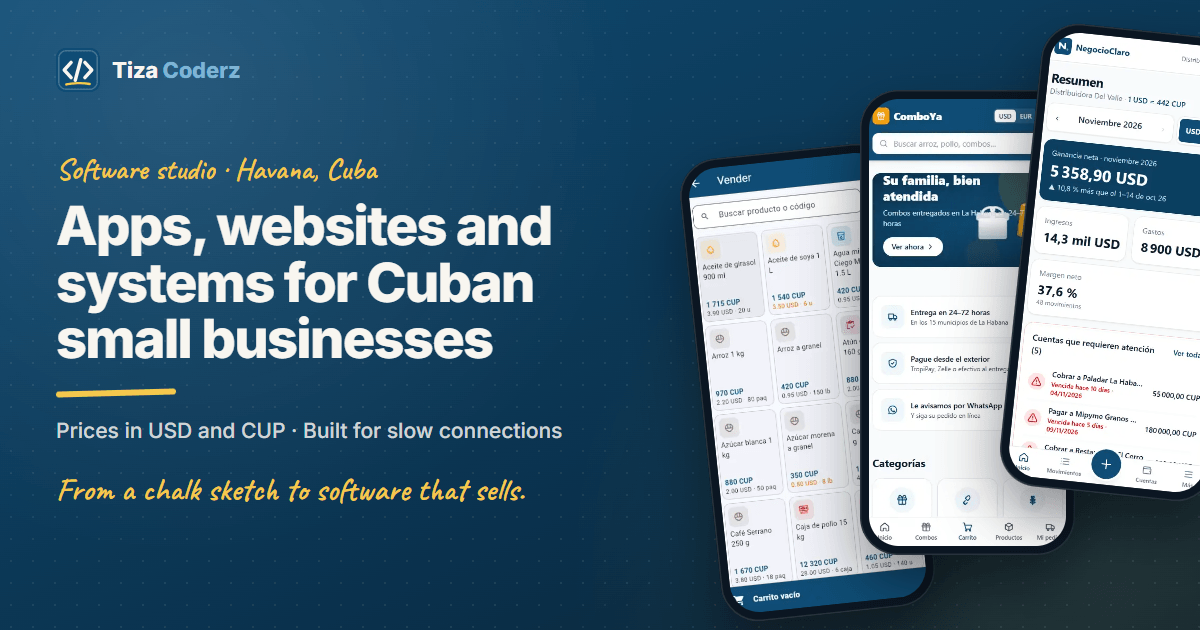
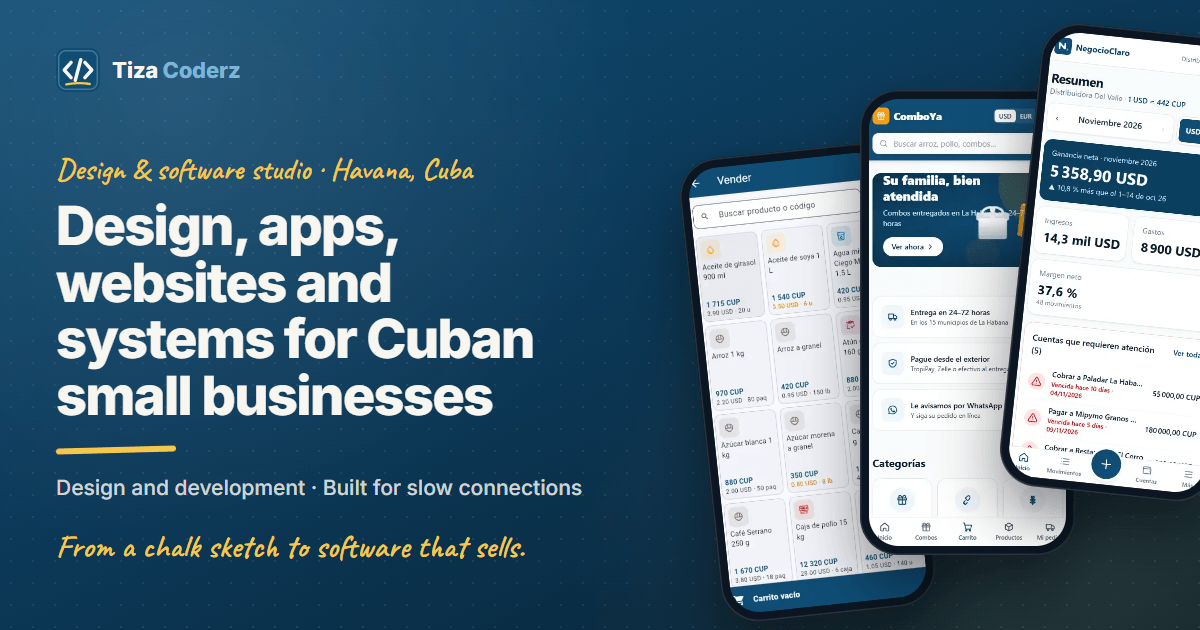
feat(seo): quita precios del JSON-LD y actualiza la imagen Open Graph del sitio

diff --git a/scripts/generate-marketing.ts b/scripts/generate-marketing.ts
@@ -7,6 +7,7 @@
  *
  *   pnpm marketing            # todo
  *   pnpm marketing comboya    # solo un proyecto
+ *   pnpm marketing --site     # solo las imágenes del sitio
  *
  * Las plantillas son HTML + CSS renderizados con Playwright (Edge/Chrome local).
  */
@@ -212,14 +213,14 @@ async function projectImages(browser: Browser, project: Project) {
 
 const siteCopy = {
   es: {
-    kicker: "Estudio de desarrollo · La Habana",
-    title: "Apps, webs y sistemas para mipymes cubanas",
-    sub: "Precios en USD y CUP · Funcionan aunque la conexión sea mala",
+    kicker: "Estudio de diseño y desarrollo · La Habana",
+    title: "Diseño, apps, webs y sistemas para mipymes cubanas",
+    sub: "Diseño y desarrollo · Funciona aunque la conexión sea mala",
   },
   en: {
-    kicker: "Software studio · Havana, Cuba",
-    title: "Apps, websites and systems for Cuban small businesses",
-    sub: "Prices in USD and CUP · Built for slow connections",
+    kicker: "Design & software studio · Havana, Cuba",
+    title: "Design, apps, websites and systems for Cuban small businesses",
+    sub: "Design and development · Built for slow connections",
   },
 } as const;
 
@@ -258,11 +259,12 @@ async function siteImages(browser: Browser) {
 
 async function main() {
   const only = process.argv[2];
-  const projects = getAllProjects("es").filter((p) => !only || p.slug === only);
+  const siteOnly = only === "--site";
+  const projects = siteOnly ? [] : getAllProjects("es").filter((p) => !only || p.slug === only);
   const browser = await chromium.launch({ channel: process.env.PW_CHANNEL ?? "msedge" });
   try {
     for (const project of projects) await projectImages(browser, project);
-    if (!only) await siteImages(browser);
+    if (!only || siteOnly) await siteImages(browser);
   } finally {
     await browser.close();
   }

diff --git a/src/lib/structured-data.ts b/src/lib/structured-data.ts
@@ -37,7 +37,6 @@ export function professionalServiceJsonLd(locale: Locale, dict: Dictionary) {
     areaServed: company.areaServed.map((name) => ({ "@type": "Place", name })),
     availableLanguage: ["es", "en"],
     currenciesAccepted: "USD, CUP",
-    priceRange: "$$",
     openingHoursSpecification: {
       "@type": "OpeningHoursSpecification",
       dayOfWeek: ["Monday", "Tuesday", "Wednesday", "Thursday", "Friday", "Saturday"],
@@ -51,13 +50,6 @@ export function professionalServiceJsonLd(locale: Locale, dict: Dictionary) {
       itemListElement: services.map((s) => ({
         "@type": "Offer",
         itemOffered: { "@type": "Service", name: s.name[locale], description: s.summary[locale] },
-        priceSpecification: {
-          "@type": s.billing === "monthly" ? "UnitPriceSpecification" : "PriceSpecification",
-          minPrice: s.priceFromUsd,
-          ...(s.priceToUsd ? { maxPrice: s.priceToUsd } : {}),
-          priceCurrency: "USD",
-          ...(s.billing === "monthly" ? { unitCode: "MON" } : {}),
-        },
       })),
     },
   };

diff --git a/src/lib/structured-data.test.ts b/src/lib/structured-data.test.ts
@@ -20,12 +20,12 @@ describe("professionalServiceJsonLd", () => {
     expect(ld.address.addressCountry).toBe("CU");
   });
 
-  it("publica una oferta por servicio con precio en USD", () => {
+  it("publica una oferta por servicio, sin precios (se cotiza a la medida)", () => {
     expect(ld.hasOfferCatalog.itemListElement).toHaveLength(services.length);
-    for (const offer of ld.hasOfferCatalog.itemListElement) {
-      expect(offer.priceSpecification.priceCurrency).toBe("USD");
-      expect(offer.priceSpecification.minPrice).toBeGreaterThan(0);
-    }
+    expect(ld.hasOfferCatalog.itemListElement.map((o) => o.itemOffered.name)).toContain(
+      "Diseño UX/UI y de marca",
+    );
+    expect(JSON.stringify(ld)).not.toMatch(/price/i);
   });
 
   it("usa URLs absolutas", () => {
